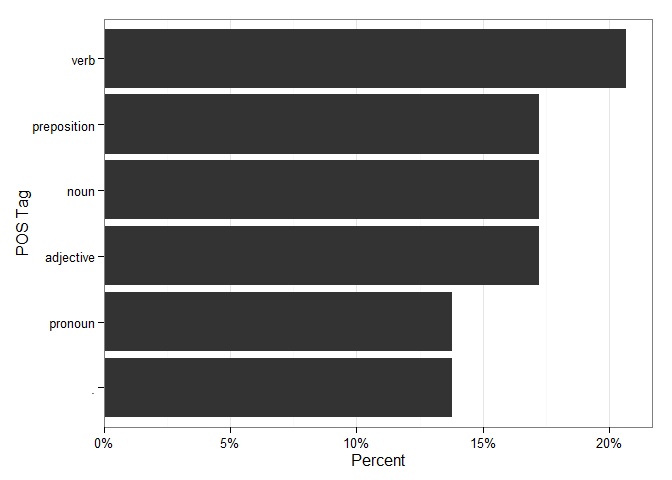
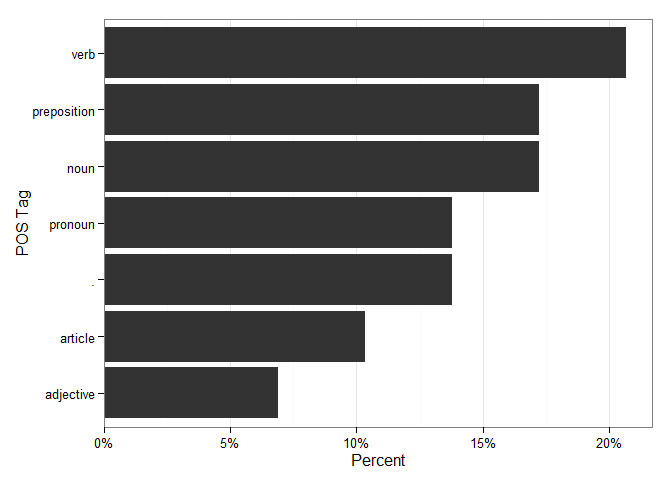
added getting termco to readme

diff --git a/README.md b/README.md
@@ -74,7 +74,10 @@ run `R CMD INSTALL` on it, or use the **pacman** package to install the
 development version:
 
     if (!require("pacman")) install.packages("pacman")
-    pacman::p_load_gh("trinker/tagger")
+    pacman::p_load_gh(c(
+        "trinker/termco", 
+        "trinker/tagger"
+    ))
 
 Contact
 =======
@@ -95,6 +98,30 @@ Load the Tools/Data
 -------------------
 
     library(dplyr); library(tagger)
+
+    ## 
+    ## Attaching package: 'dplyr'
+    ## 
+    ## The following objects are masked from 'package:stats':
+    ## 
+    ##     filter, lag
+    ## 
+    ## The following object is masked from 'package:qdap':
+    ## 
+    ##     %>%
+    ## 
+    ## The following object is masked from 'package:qdapTools':
+    ## 
+    ##     id
+    ## 
+    ## The following objects are masked from 'package:qdapRegex':
+    ## 
+    ##     escape, explain
+    ## 
+    ## The following objects are masked from 'package:base':
+    ## 
+    ##     intersect, setdiff, setequal, union
+
     data(presidential_debates_2012)
     mwe <- data_frame(
         person = c("Tyler", "Norah", "Tyler"),
@@ -455,9 +482,9 @@ Dewaele, 2002) scoring.
     tag_pos(mwe$talk) %>%
         as_basic()
 
-    ## [1] "I/pronoun need/verb $/. 54/adjective to/preposition go/verb to/preposition the/adjective movies/noun ./."                       
-    ## [2] "They/pronoun refuse/verb to/preposition permit/verb us/pronoun to/preposition obtain/verb the/adjective refuse/noun permit/noun"
-    ## [3] "This/adjective is/verb the/adjective tagger/noun package/noun ;/. like/preposition it/pronoun ?/."
+    ## [1] "I/pronoun need/verb $/. 54/adjective to/preposition go/verb to/preposition the/article movies/noun ./."                       
+    ## [2] "They/pronoun refuse/verb to/preposition permit/verb us/pronoun to/preposition obtain/verb the/article refuse/noun permit/noun"
+    ## [3] "This/adjective is/verb the/article tagger/noun package/noun ;/. like/preposition it/pronoun ?/."
 
 The out put is a `tag_pos` object and thus has a generic plot method.
 
@@ -471,7 +498,11 @@ The out put is a `tag_pos` object and thus has a generic plot method.
         as_basic() %>%
         count_tags()
 
-    ##   n.tokens        . adjective     noun preposition  pronoun     verb
-    ## 1       10 2(20.0%)  2(20.0%) 1(10.0%)    2(20.0%) 1(10.0%) 2(20.0%)
-    ## 2       10        0  1(10.0%) 2(20.0%)    2(20.0%) 2(20.0%) 3(30.0%)
-    ## 3        9 2(22.2%)  2(22.2%) 2(22.2%)    1(11.1%) 1(11.1%) 1(11.1%)
+    ##   n.tokens        . adjective  article     noun preposition  pronoun
+    ## 1       10 2(20.0%)  1(10.0%) 1(10.0%) 1(10.0%)    2(20.0%) 1(10.0%)
+    ## 2       10        0         0 1(10.0%) 2(20.0%)    2(20.0%) 2(20.0%)
+    ## 3        9 2(22.2%)  1(11.1%) 1(11.1%) 2(22.2%)    1(11.1%) 1(11.1%)
+    ##       verb
+    ## 1 2(20.0%)
+    ## 2 3(30.0%)
+    ## 3 1(11.1%)
